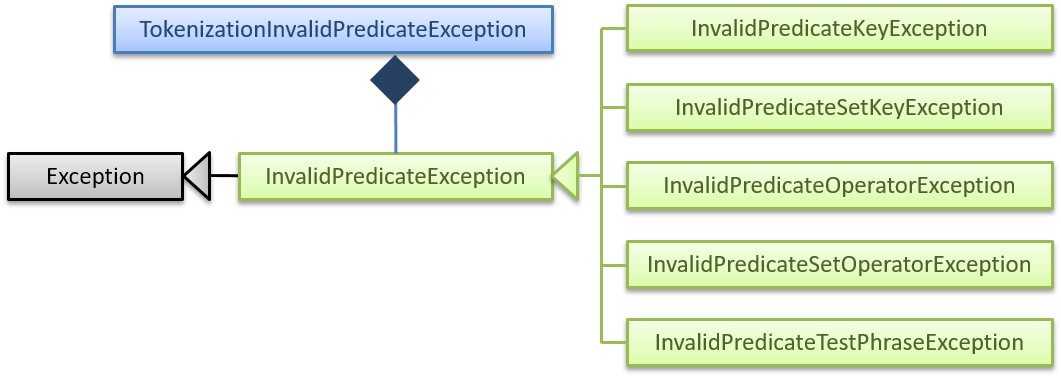
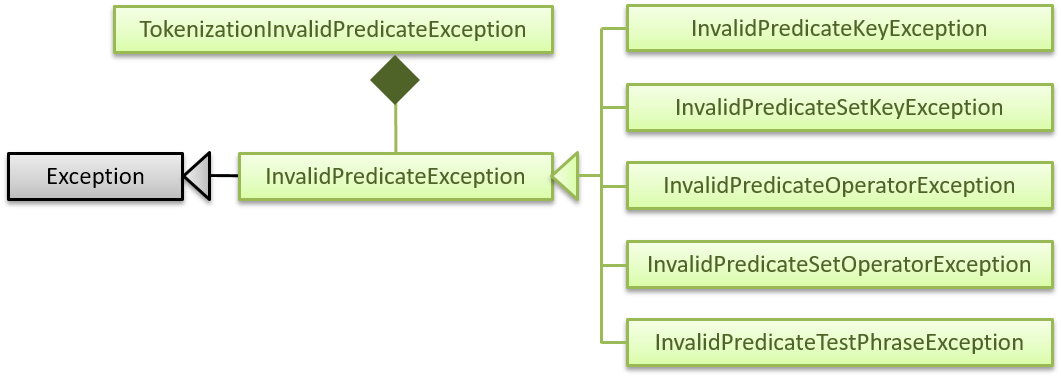
Rebuild pages at d649e3c628fa562c5f9cf809f790cf2bae9908f2

Changed region(s): [[0.0933, 0.0, 0.5287, 0.2872]]

diff --git a/team/btzy.html b/team/btzy.html
@@ -1,14 +1,7 @@
 <!DOCTYPE html><html lang="en"><head><meta charset="UTF-8"><!--[if IE]><meta http-equiv="X-UA-Compatible" content="IE=edge"><![endif]--><meta name="viewport" content="width=device-width, initial-scale=1.0"><meta name="generator" content="Asciidoctor 1.5.6.1"><title>Bernard Teo Zhi Yi - Project Portfolio</title><link rel="stylesheet" href="../stylesheets/gh-pages.css">
 <link rel="stylesheet" href="https://cdnjs.cloudflare.com/ajax/libs/font-awesome/4.5.0/css/font-awesome.min.css">
-<link rel="stylesheet" href="../stylesheets/coderay-asciidoctor.css"></head><body class="article"><div id="site-header"><nav class="navbar navbar-light bg-light"><div class="container"><a class="navbar-brand" href="../index.html">DeadlineManager</a><ul class="navbar-nav"><li class="nav-item"><a class="nav-link" href="../UserGuide.html">User Guide</a></li><li class="nav-item"><a class="nav-link" href="../DeveloperGuide.html">Developer Guide</a></li><li class="nav-item"><a class="nav-link active" href="../AboutUs.html">About Us</a></li><li class="nav-item"><a class="nav-link" href="../ContactUs.html">Contact Us</a></li><li class="navitem"><a class="nav-link" href="https://github.com/CS2103-AY1819S1-W17-4/main"><span class="fa fa-github fa-lg" aria-hidden="true"></span>&nbsp;View on GitHub</a></li></ul></div></nav></div><div id="header"><h1>Bernard Teo Zhi Yi - Project Portfolio</h1></div><div id="content"><div id="preamble">
-<div class="sectionbody">
-<div class="paragraph">
-<p><span class="big">Project: Deadline Manager</span></p>
-</div>
-</div>
-</div>
-<div class="sect1">
-<h2 id="overview"><a class="link" href="#overview">1. Overview</a></h2>
+<link rel="stylesheet" href="../stylesheets/coderay-asciidoctor.css"></head><body class="article"><div id="site-header"><nav class="navbar navbar-light bg-light"><div class="container"><a class="navbar-brand" href="../index.html">DeadlineManager</a><ul class="navbar-nav"><li class="nav-item"><a class="nav-link" href="../UserGuide.html">User Guide</a></li><li class="nav-item"><a class="nav-link" href="../DeveloperGuide.html">Developer Guide</a></li><li class="nav-item"><a class="nav-link active" href="../AboutUs.html">About Us</a></li><li class="nav-item"><a class="nav-link" href="../ContactUs.html">Contact Us</a></li><li class="navitem"><a class="nav-link" href="https://github.com/CS2103-AY1819S1-W17-4/main"><span class="fa fa-github fa-lg" aria-hidden="true"></span>&nbsp;View on GitHub</a></li></ul></div></nav></div><div id="header"><h1>Bernard Teo Zhi Yi - Project Portfolio</h1></div><div id="content"><div class="sect1">
+<h2 id="project-deadline-manager"><a class="link" href="#project-deadline-manager">PROJECT: Deadline Manager</a></h2>
 <div class="sectionbody">
 <div class="paragraph">
 <p>This portfolio serves to document my contributions to Deadline Manager - our 2<sup>nd</sup> year software engineering project.  We worked as a team of 5 people to create Deadline Manager, which is based on <a href="https://github.com/nus-cs2103-AY1819S1/addressbook-level4">Address Book (Level 4)</a>.  We were constrained to use a command line interface (CLI) and were given 6 weeks to work on our application.</p>
@@ -19,7 +12,7 @@
 </div>
 </div>
 <div class="sect1">
-<h2 id="summary-of-contributions"><a class="link" href="#summary-of-contributions">2. Summary of contributions</a></h2>
+<h2 id="summary-of-contributions"><a class="link" href="#summary-of-contributions">1. Summary of contributions</a></h2>
 <div class="sectionbody">
 <div class="ulist">
 <ul>
@@ -86,7 +79,7 @@
 </div>
 </div>
 <div class="sect1">
-<h2 id="contributions-to-the-user-guide"><a class="link" href="#contributions-to-the-user-guide">3. Contributions to the User Guide</a></h2>
+<h2 id="contributions-to-the-user-guide"><a class="link" href="#contributions-to-the-user-guide">2. Contributions to the User Guide</a></h2>
 <div class="sectionbody">
 <table class="tableblock frame-all grid-all spread">
 <colgroup>
@@ -99,7 +92,7 @@
 </tbody>
 </table>
 <div class="sect2">
-<h3 id="filtering-a-list-of-tasks-code-filter-code"><a class="link" href="#filtering-a-list-of-tasks-code-filter-code">3.1. Filtering a list of tasks: <code>filter</code></a></h3>
+<h3 id="filtering-a-list-of-tasks-code-filter-code"><a class="link" href="#filtering-a-list-of-tasks-code-filter-code">2.1. Filtering a list of tasks: <code>filter</code></a></h3>
 <div class="paragraph">
 <p>Filters the current list of tasks with a specified filter expression.<br>
 Format: <code>filter FILTER_EXPRESSION</code></p>
@@ -119,8 +112,9 @@ When executing any <em>modifying</em> commands on a filtered list, the filter wi
 </tr>
 </table>
 </div>
+<div style="page-break-after: always;"></div>
 <div class="sect3">
-<h4 id="overview-2"><a class="link" href="#overview-2">3.1.1. Overview</a></h4>
+<h4 id="overview"><a class="link" href="#overview">2.1.1. Overview</a></h4>
 <div class="imageblock" style="float: right">
 <div class="content">
 <img src="../images/userguide/filterdemo_simplified.png" alt="FilterDemo_Simplified" width="300">
@@ -132,7 +126,7 @@ When executing any <em>modifying</em> commands on a filtered list, the filter wi
 </div>
 </div>
 <div class="sect3">
-<h4 id="simplified-filter-syntax"><a class="link" href="#simplified-filter-syntax">3.1.2. Simplified filter syntax</a></h4>
+<h4 id="simplified-filter-syntax"><a class="link" href="#simplified-filter-syntax">2.1.2. Simplified filter syntax</a></h4>
 <div class="paragraph">
 <p>Tasks can be filtered by typing <code>filter</code> followed by one or more space-separated keywords (e.g. <code>filter assignment</code>, <code>filter homework CS2103</code>, or <code>filter badminton utown 3/10/2018</code>).  Such a filter expression would display only those tasks that contain textual or date fields (i.e. name, deadline, tags, and attachments) that matches <strong>every</strong> keyword (e.g. <code>filter homework CS2103</code> will match a task with name <code>Homework 1</code> <strong>and</strong> tags <code>CS2103</code> and <code>easy</code>).</p>
 </div>
@@ -151,7 +145,7 @@ When executing any <em>modifying</em> commands on a filtered list, the filter wi
 </table>
 </div>
 <div class="sect3">
-<h4 id="controlling-the-field-being-matched"><a class="link" href="#controlling-the-field-being-matched">3.1.3. Controlling the field being matched</a></h4>
+<h4 id="controlling-the-field-being-matched"><a class="link" href="#controlling-the-field-being-matched">2.1.3. Controlling the field being matched</a></h4>
 <div class="imageblock thumb right">
 <div class="content">
 <img src="../images/FilterUnitDiagramUG.png" alt="FilterUnitDiagramUG" width="120">
@@ -192,7 +186,7 @@ When executing any <em>modifying</em> commands on a filtered list, the filter wi
 </table>
 </div>
 <div class="sect3">
-<h4 id="compositng-filter-predicates"><a class="link" href="#compositng-filter-predicates">3.1.4. Compositng filter predicates</a></h4>
+<h4 id="composing-filter-predicates"><a class="link" href="#composing-filter-predicates">2.1.4. Composing filter predicates</a></h4>
 <div class="paragraph">
 <p>Filter predicates may be combined using AND, OR, and NOT operators, as well as any level of parantheses.  This feature gives ultimate flexibility to the filter command.</p>
 </div>
@@ -205,13 +199,13 @@ When executing any <em>modifying</em> commands on a filtered list, the filter wi
 </colgroup>
 <tbody>
 <tr>
-<td class="tableblock halign-left valign-top"><p class="tableblock"><em>For more explanation on using composition of filter predicates effectively, please visit our <a href="https://cs2103-ay1819s1-w17-4.github.io/main/UserGuide.html#composing-filter-predicates">user guide</a>.  More examples are also available there.</em></p></td>
+<td class="tableblock halign-left valign-top"><p class="tableblock"><em>For more explanation and examples on using composition of filter predicates effectively, please visit our <a href="https://cs2103-ay1819s1-w17-4.github.io/main/UserGuide.html#composing-filter-predicates">user guide</a>.</em></p></td>
 </tr>
 </tbody>
 </table>
 </div>
 <div class="sect3">
-<h4 id="set-based-extensions-for-filter-predicates"><a class="link" href="#set-based-extensions-for-filter-predicates">3.1.5. Set-based extensions for filter predicates</a></h4>
+<h4 id="set-based-extensions-for-filter-predicates"><a class="link" href="#set-based-extensions-for-filter-predicates">2.1.5. Set-based extensions for filter predicates</a></h4>
 <div class="imageblock thumb right">
 <div class="content">
 <img src="../images/FilterUnitDiagramSetUG.png" alt="FilterUnitDiagramSetUG" width="150">
@@ -235,9 +229,6 @@ When executing any <em>modifying</em> commands on a filtered list, the filter wi
 <p>The operator <code>&gt;</code> tests if every item in the specified set is contained within the task&#8217;s set.  The operator <code>&lt;</code> tests if every item in the task&#8217;s set is contained within the specified set.  The operator <code>=</code> tests if the two sets are equivalent (meaning that every item in the task&#8217;s set is contained within the specified set and vice-versa).  The convenience operator is an alias for <code>&gt;</code>.</p>
 </li>
 </ul>
-</div>
-<div class="paragraph">
-<p>Note that the definition of "contained" here is dependent on the kind of field operator being used - it does not necessarily mean a comparison for equality.  See the examples below for more information.</p>
 </div>
 </div>
 </div>
@@ -279,13 +270,13 @@ The set operator works in the same way as the above table for the attachment fie
 </colgroup>
 <tbody>
 <tr>
-<td class="tableblock halign-left valign-top"><p class="tableblock"><em>For more examples, please visit our <a href="https://cs2103-ay1819s1-w17-4.github.io/main/UserGuide.html#composing-filter-predicates">user guide</a>.</em></p></td>
+<td class="tableblock halign-left valign-top"><p class="tableblock"><em>For more examples, please visit our <a href="https://cs2103-ay1819s1-w17-4.github.io/main/UserGuide.html#set-based-extensions-for-filter-predicates">user guide</a>.</em></p></td>
 </tr>
 </tbody>
 </table>
 </div>
 <div class="sect3">
-<h4 id="error-messages"><a class="link" href="#error-messages">3.1.6. Error messages</a></h4>
+<h4 id="error-messages"><a class="link" href="#error-messages">2.1.6. Error messages</a></h4>
 <div class="paragraph">
 <p>As filter expressions can be made arbitrarily complex, the filter command is also designed to provide comprehensive error messages that will help you to pinpoint any errors.</p>
 </div>
@@ -326,13 +317,12 @@ The underlined substring might not always be exactly what you expect, because th
 </tr>
 </tbody>
 </table>
-<div style="page-break-after: always;"></div>
 </div>
 </div>
 </div>
 </div>
 <div class="sect1">
-<h2 id="contributions-to-the-developer-guide"><a class="link" href="#contributions-to-the-developer-guide">4. Contributions to the Developer Guide</a></h2>
+<h2 id="contributions-to-the-developer-guide"><a class="link" href="#contributions-to-the-developer-guide">3. Contributions to the Developer Guide</a></h2>
 <div class="sectionbody">
 <table class="tableblock frame-all grid-all spread">
 <colgroup>
@@ -345,12 +335,12 @@ The underlined substring might not always be exactly what you expect, because th
 </tbody>
 </table>
 <div class="sect2">
-<h3 id="filter-feature"><a class="link" href="#filter-feature">4.1. Filter feature</a></h3>
+<h3 id="filter-feature"><a class="link" href="#filter-feature">3.1. Filter feature</a></h3>
 <div class="paragraph">
 <p>The deadline manager supports a very expressive filtering system.  The filtering system can be utilized with the <code>filter</code> command.</p>
 </div>
 <div class="sect3">
-<h4 id="overview-3"><a class="link" href="#overview-3">4.1.1. Overview</a></h4>
+<h4 id="overview-2"><a class="link" href="#overview-2">3.1.1. Overview</a></h4>
 <table class="tableblock frame-all grid-all spread">
 <colgroup>
 <col style="width: 100%;">
@@ -426,20 +416,20 @@ The second component in the list above also accepts a filter unit that contains 
 </table>
 </div>
 <div class="sect3">
-<h4 id="boolean-expression-parser"><a class="link" href="#boolean-expression-parser">4.1.2. Boolean expression parser</a></h4>
+<h4 id="boolean-expression-parser"><a class="link" href="#boolean-expression-parser">3.1.2. Boolean expression parser</a></h4>
 <table class="tableblock frame-all grid-all spread">
 <colgroup>
 <col style="width: 100%;">
 </colgroup>
 <tbody>
 <tr>
-<td class="tableblock halign-left valign-top"><p class="tableblock"><em>The boolean expression parser uses the shunting yard algorithm to compose NOT, AND, and OR operators, and respects operator precedence.  For more information, please visit our <a href="https://cs2103-ay1819s1-w17-4.github.io/main/DeveloperGuide.html#string-tokenizer">developer guide</a>.</em></p></td>
+<td class="tableblock halign-left valign-top"><p class="tableblock"><em>The boolean expression parser uses the shunting yard algorithm to compose NOT, AND, and OR operators, and respects operator precedence.  For more information, please visit our <a href="https://cs2103-ay1819s1-w17-4.github.io/main/DeveloperGuide.html#boolean-expression-parser">developer guide</a>.</em></p></td>
 </tr>
 </tbody>
 </table>
 </div>
 <div class="sect3">
-<h4 id="filter-unit-parser"><a class="link" href="#filter-unit-parser">4.1.3. Filter unit parser</a></h4>
+<h4 id="filter-unit-parser"><a class="link" href="#filter-unit-parser">3.1.3. Filter unit parser</a></h4>
 <div class="paragraph">
 <p>The filter unit parser is written as a lambda expression inside the <code>FilterCommandParser</code> class.  This lambda expression then calls <code>FilterCommandParser#createFilterUnit</code>, which contains most of the logic for the filter unit parser.</p>
 </div>
@@ -493,13 +483,13 @@ The second component in the list above also accepts a filter unit that contains 
 </colgroup>
 <tbody>
 <tr>
-<td class="tableblock halign-left valign-top"><p class="tableblock"><em>More explanation on the "field identifier", "filter operator", "set operator", and "test phrase" are available in our <a href="https://cs2103-ay1819s1-w17-4.github.io/main/DeveloperGuide.html#filter-feature">developer guide</a>.  Please follow the link for more information.</em></p></td>
+<td class="tableblock halign-left valign-top"><p class="tableblock"><em>More explanation on the "field identifier", "filter operator", "set operator", and "test phrase" are available in our <a href="https://cs2103-ay1819s1-w17-4.github.io/main/DeveloperGuide.html#field-identifier">developer guide</a>.  Documentation for the field-specific parser is also available there.  Please follow the link for more information.</em></p></td>
 </tr>
 </tbody>
 </table>
 </div>
 <div class="sect3">
-<h4 id="error-messages-2"><a class="link" href="#error-messages-2">4.1.4. Error messages</a></h4>
+<h4 id="error-messages-2"><a class="link" href="#error-messages-2">3.1.4. Error messages</a></h4>
 <div class="paragraph">
 <p>Error conditions are signalled via checked exceptions that inherit from <code>seedu.address.logic.parser.tokenizer.exception.TokenizationException</code>.  Those error conditions that are associated with a particular character range in the filter expression inherit from <code>seedu.address.logic.parser.tokenizer.exception.TokenizationMismatchException</code>, which provides the facilities for storing the start and end indices of the offending character range.  <code>TokenizationMismatchException</code> itself inherits from <code>TokenizationException</code>.  Checked exceptions were chosen because they allow the compiler to enforce that every possible exception is caught, and creating a subclass for each kind of error condition allows for the precise specification (in the <code>throws</code> clause) of the kind of error conditions that can happen in each and every method.</p>
 </div>
@@ -521,15 +511,15 @@ The second component in the list above also accepts a filter unit that contains 
 </colgroup>
 <tbody>
 <tr>
-<td class="tableblock halign-left valign-top"><p class="tableblock"><em>More explanation on the use of <code>TokenizationInvalidPredicateException</code> is available in our <a href="https://cs2103-ay1819s1-w17-4.github.io/main/DeveloperGuide.html#filter-feature">developer guide</a>.</em></p></td>
+<td class="tableblock halign-left valign-top"><p class="tableblock"><em>More explanation on the use of <code>TokenizationInvalidPredicateException</code> is available in our <a href="https://cs2103-ay1819s1-w17-4.github.io/main/DeveloperGuide.html#error-messages">developer guide</a>.</em></p></td>
 </tr>
 </tbody>
 </table>
 </div>
 <div class="sect3">
-<h4 id="design-considerations"><a class="link" href="#design-considerations">4.1.5. Design Considerations</a></h4>
+<h4 id="design-considerations"><a class="link" href="#design-considerations">3.1.5. Design Considerations</a></h4>
 <div class="sect4">
-<h5 id="aspect-what-the-convenience-operator-should-do"><a class="link" href="#aspect-what-the-convenience-operator-should-do">4.1.5.1. Aspect: What the convenience operator should do</a></h5>
+<h5 id="aspect-what-the-convenience-operator-should-do"><a class="link" href="#aspect-what-the-convenience-operator-should-do">3.1.5.1. Aspect: What the convenience operator should do</a></h5>
 <div class="ulist">
 <ul>
 <li>
@@ -562,7 +552,7 @@ The second component in the list above also accepts a filter unit that contains 
 </div>
 </div>
 <div class="sect4">
-<h5 id="aspect-how-to-signal-exceptional-conditions-when-parsing-filter-expressions"><a class="link" href="#aspect-how-to-signal-exceptional-conditions-when-parsing-filter-expressions">4.1.5.2. Aspect: How to signal exceptional conditions when parsing filter expressions</a></h5>
+<h5 id="aspect-how-to-signal-exceptional-conditions-when-parsing-filter-expressions"><a class="link" href="#aspect-how-to-signal-exceptional-conditions-when-parsing-filter-expressions">3.1.5.2. Aspect: How to signal exceptional conditions when parsing filter expressions</a></h5>
 <div class="ulist">
 <ul>
 <li>
@@ -620,4 +610,4 @@ The second component in the list above also accepts a filter unit that contains 
 </div>
 </div>
 </div>
-</div></div><div id="footer"><div class="container"><div id="footer-text">Last updated 2018-11-12 14:37:28 UTC</div></div></div></body></html>
+</div></div><div id="footer"><div class="container"><div id="footer-text">Last updated 2018-11-12 14:46:52 UTC</div></div></div></body></html>

diff --git a/DeveloperGuide-btzy.html b/DeveloperGuide-btzy.html
@@ -2284,7 +2284,7 @@ Priority values do not compare in the same order as their values as integers.  P
 <div class="title">Figure 24. Inheritance tree for exceptions that may be thrown from parsing a filter expression</div>
 </div>
 <div class="paragraph">
-<p>In the diagram above, the <span class="blue"><strong>blue</strong></span> classes are exceptions thrown by <code>StringTokenizer</code>, while the <span class="red"><strong>red</strong></span> classes are exceptions thrown by <code>BooleanExpressionParser</code>.  In order to reduce coupling between <code>StringTokenizer</code> and <code>BooleanExpressionParser</code>, and to be able to distinguish (by type-based <code>catch</code> clauses) the end-of-string exceptions of those components, they do not share the same class for end-of-string exceptions.</p>
+<p>In the diagram above, the <span class="blue"><strong>blue</strong></span> classes are exceptions thrown by <code>StringTokenizer</code>, while the <span class="red"><strong>red</strong></span> classes are exceptions thrown by <code>BooleanExpressionParser</code>.  The <span class="green"><strong>green</strong></span> <code>TokenizationInvalidPredicateException</code> class is a wrapper class for exceptions thrown by the filter unit parser.  In order to reduce coupling between <code>StringTokenizer</code> and <code>BooleanExpressionParser</code>, and to be able to distinguish (by type-based <code>catch</code> clauses) the end-of-string exceptions of those components, they do not share the same class for end-of-string exceptions.</p>
 </div>
 <div class="paragraph">
 <p><code>TokenizationInvalidPredicateException</code> is a wrapper class for <code>InvalidPredicateException</code>, which is thrown when the field-specific parser or set parser encounters an error.  The diagram below shows the different exceptions that may be thrown to indicate the types of issues that may be encountered when parsing a filter unit, and how they may be propagated to <code>FilterCommandParser</code> via wrapping by <code>TokenizationInvalidPredicateException</code>:</p>
@@ -4830,4 +4830,4 @@ Expected: Similar to previous.</p>
 </div>
 </div>
 </div>
-</div></div><div id="footer"><div class="container"><div id="footer-text">Last updated 2018-11-12 14:37:28 UTC</div></div></div></body></html>
+</div></div><div id="footer"><div class="container"><div id="footer-text">Last updated 2018-11-12 14:46:52 UTC</div></div></div></body></html>

diff --git a/DeveloperGuide.html b/DeveloperGuide.html
@@ -2288,7 +2288,7 @@ Priority values do not compare in the same order as their values as integers.  P
 <div class="title">Figure 24. Inheritance tree for exceptions that may be thrown from parsing a filter expression</div>
 </div>
 <div class="paragraph">
-<p>In the diagram above, the <span class="blue"><strong>blue</strong></span> classes are exceptions thrown by <code>StringTokenizer</code>, while the <span class="red"><strong>red</strong></span> classes are exceptions thrown by <code>BooleanExpressionParser</code>.  In order to reduce coupling between <code>StringTokenizer</code> and <code>BooleanExpressionParser</code>, and to be able to distinguish (by type-based <code>catch</code> clauses) the end-of-string exceptions of those components, they do not share the same class for end-of-string exceptions.</p>
+<p>In the diagram above, the <span class="blue"><strong>blue</strong></span> classes are exceptions thrown by <code>StringTokenizer</code>, while the <span class="red"><strong>red</strong></span> classes are exceptions thrown by <code>BooleanExpressionParser</code>.  The <span class="green"><strong>green</strong></span> <code>TokenizationInvalidPredicateException</code> class is a wrapper class for exceptions thrown by the filter unit parser.  In order to reduce coupling between <code>StringTokenizer</code> and <code>BooleanExpressionParser</code>, and to be able to distinguish (by type-based <code>catch</code> clauses) the end-of-string exceptions of those components, they do not share the same class for end-of-string exceptions.</p>
 </div>
 <div class="paragraph">
 <p><code>TokenizationInvalidPredicateException</code> is a wrapper class for <code>InvalidPredicateException</code>, which is thrown when the field-specific parser or set parser encounters an error.  The diagram below shows the different exceptions that may be thrown to indicate the types of issues that may be encountered when parsing a filter unit, and how they may be propagated to <code>FilterCommandParser</code> via wrapping by <code>TokenizationInvalidPredicateException</code>:</p>
@@ -4825,4 +4825,4 @@ Expected: Similar to previous.</p>
 </div>
 </div>
 </div>
-</div></div><div id="footer"><div class="container"><div id="footer-text">Last updated 2018-11-12 14:37:28 UTC</div></div></div></body></html>
+</div></div><div id="footer"><div class="container"><div id="footer-text">Last updated 2018-11-12 14:46:52 UTC</div></div></div></body></html>

diff --git a/UserGuide-btzy.html b/UserGuide-btzy.html
@@ -409,6 +409,7 @@ When executing any <em>modifying</em> commands on a filtered list, the filter wi
 </tr>
 </table>
 </div>
+<div style="page-break-after: always;"></div>
 <div class="sect3">
 <h4 id="overview"><a class="link" href="#overview">3.6.1. Overview</a></h4>
 <div class="imageblock" style="float: right">
@@ -1203,9 +1204,6 @@ Returns a subset of the current list of tasks that have a name that does not con
 <p>The operator <code>&gt;</code> tests if every item in the specified set is contained within the task&#8217;s set.  The operator <code>&lt;</code> tests if every item in the task&#8217;s set is contained within the specified set.  The operator <code>=</code> tests if the two sets are equivalent (meaning that every item in the task&#8217;s set is contained within the specified set and vice-versa).  The convenience operator is an alias for <code>&gt;</code>.</p>
 </li>
 </ul>
-</div>
-<div class="paragraph">
-<p>Note that the definition of "contained" here is dependent on the kind of field operator being used - it does not necessarily mean a comparison for equality.  See the examples below for more information.</p>
 </div>
 </div>
 </div>
@@ -2314,4 +2312,4 @@ e.g. <code>sort due&lt; name&gt;</code></p>
 </ul>
 </div>
 </div>
-</div></div><div id="footer"><div class="container"><div id="footer-text">Last updated 2018-11-12 14:37:28 UTC</div></div></div></body></html>
+</div></div><div id="footer"><div class="container"><div id="footer-text">Last updated 2018-11-12 14:46:52 UTC</div></div></div></body></html>

diff --git a/team/johndoe.html b/team/johndoe.html
@@ -442,4 +442,4 @@ If the <code>currentStatePointer</code> is at index <code>taskCollectionStateLis
 <p><em>{Optionally, you may include other projects in your portfolio.}</em></p>
 </div>
 </div>
-</div></div><div id="footer"><div class="container"><div id="footer-text">Last updated 2018-11-12 14:37:28 UTC</div></div></div></body></html>
+</div></div><div id="footer"><div class="container"><div id="footer-text">Last updated 2018-11-12 14:46:52 UTC</div></div></div></body></html>

diff --git a/ContactUs.html b/ContactUs.html
@@ -12,4 +12,4 @@
 <p><strong>Email us</strong> : You can also reach us at <code>damith [at] comp.nus.edu.sg</code></p>
 </li>
 </ul>
-</div></div><div id="footer"><div class="container"><div id="footer-text">Last updated 2018-11-12 14:37:28 UTC</div></div></div></body></html>
+</div></div><div id="footer"><div class="container"><div id="footer-text">Last updated 2018-11-12 14:46:52 UTC</div></div></div></body></html>

diff --git a/LearningOutcomes.html b/LearningOutcomes.html
@@ -542,4 +542,4 @@ class gives some examples of how to use <em>Equivalence Partitions</em>, <em>Bou
 </div>
 </div>
 </div>
-</div></div><div id="footer"><div class="container"><div id="footer-text">Last updated 2018-11-12 14:37:28 UTC</div></div></div></body></html>
+</div></div><div id="footer"><div class="container"><div id="footer-text">Last updated 2018-11-12 14:46:52 UTC</div></div></div></body></html>

diff --git a/team/ranaldmiao.html b/team/ranaldmiao.html
@@ -565,4 +565,4 @@ Lists all attachments currently associated with the 1st task in the deadline man
 </div>
 </div>
 </div>
-</div></div><div id="footer"><div class="container"><div id="footer-text">Last updated 2018-11-12 14:37:28 UTC</div></div></div></body></html>
+</div></div><div id="footer"><div class="container"><div id="footer-text">Last updated 2018-11-12 14:46:52 UTC</div></div></div></body></html>

diff --git a/team/sidhant007.html b/team/sidhant007.html
@@ -479,4 +479,4 @@ A <code>NullPointerException</code> is raised in case the <code>SortCommand</cod
 </div>
 </div>
 </div>
-</div></div><div id="footer"><div class="container"><div id="footer-text">Last updated 2018-11-12 14:37:28 UTC</div></div></div></body></html>
+</div></div><div id="footer"><div class="container"><div id="footer-text">Last updated 2018-11-12 14:46:52 UTC</div></div></div></body></html>

diff --git a/team/sijie123.html b/team/sijie123.html
@@ -696,4 +696,4 @@ Due to limited space in the PPP, an aspect on supporting different file formats 
 </div>
 </div>
 </div>
-</div></div><div id="footer"><div class="container"><div id="footer-text">Last updated 2018-11-12 14:37:28 UTC</div></div></div></body></html>
+</div></div><div id="footer"><div class="container"><div id="footer-text">Last updated 2018-11-12 14:46:52 UTC</div></div></div></body></html>

diff --git a/UsingGradle.html b/UsingGradle.html
@@ -255,4 +255,4 @@ See <code>build.gradle</code> &#8594; <code>allprojects</code> &#8594; <code>dep
 </ul>
 </div>
 </div>
-</div></div><div id="footer"><div class="container"><div id="footer-text">Last updated 2018-11-12 14:37:28 UTC</div></div></div></body></html>
+</div></div><div id="footer"><div class="container"><div id="footer-text">Last updated 2018-11-12 14:46:52 UTC</div></div></div></body></html>

diff --git a/UsingNetlify.html b/UsingNetlify.html
@@ -123,4 +123,4 @@ The publish directory is the directory in which the built HTML documentation res
 </ol>
 </div>
 </div>
-</div></div><div id="footer"><div class="container"><div id="footer-text">Last updated 2018-11-12 14:37:28 UTC</div></div></div></body></html>
+</div></div><div id="footer"><div class="container"><div id="footer-text">Last updated 2018-11-12 14:46:52 UTC</div></div></div></body></html>
